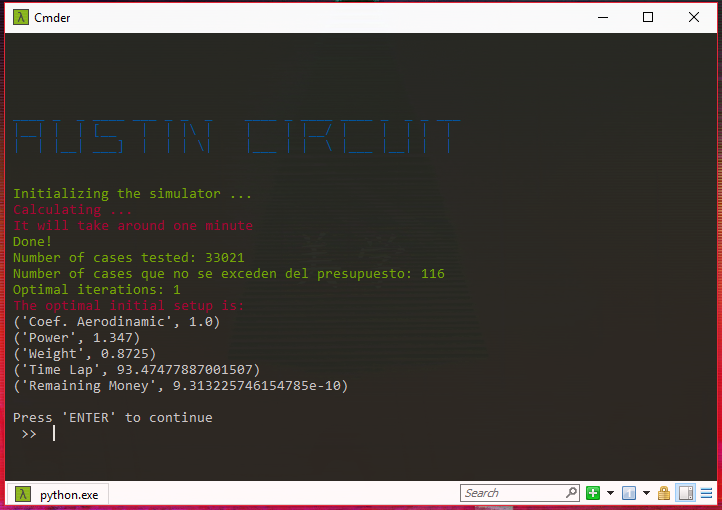
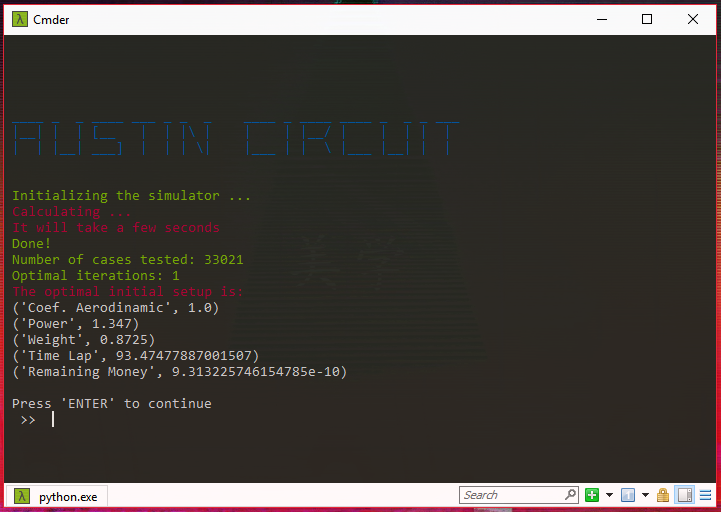
Formula 1 Track Simulator

diff --git a/simulation.py b/simulation.py
@@ -40,9 +40,9 @@ def Run(track, requestInput=True):
 	stepP = improvementRate * powerMax/100;
 	stepW = improvementRate * weightMin/100;
 
-	utils.Print("Calculating ... \nIt will take around one minute", 'red');
+	utils.Print("Calculating ... \nIt will take a few seconds", 'red');
 
-	i, j, k = 0, 0, 0;
+	i, j= 0, 0;
 	optimalConfig = [coef_it, power_it, weight_it, time.Value, -1];
 	while coef_it < coefMax:
 		while power_it < powerMax:
@@ -53,7 +53,6 @@ def Run(track, requestInput=True):
 				if remainingMoney < 0 :
 					break;
 
-				k += 1;
 				weight.Value = weight_it;
 				power.Value = power_it;
 				coef.Value = coef_it;
@@ -75,7 +74,6 @@ def Run(track, requestInput=True):
 	x1.Application.Quit();
 	utils.Print("Done!", 'green');
 	utils.Print("Number of cases tested: " + str(j), 'green');
-	utils.Print("Number of cases que no se exceden del presupuesto: " + str(k), 'green');
 	utils.Print("Optimal iterations: " + str(i), 'green');
 	utils.WaitForSeconds(0.2);
 	utils.PrintOptimal(optimalConfig);

diff --git a/menu.py b/menu.py
@@ -66,8 +66,7 @@ def exec_menu(choice):
  
 def simulators():
 
-    utils.Print("\nSelect a circuit to start the simulation!", 'blue');
-    utils.Print("(This will take approximately 1 minute for each track)\n\n", 'red');
+    utils.Print("\nSelect a circuit to start the simulation!\n\n", 'blue');
     print "1. Austin";
     print "2. Malasya";
     print "3. Monza";
